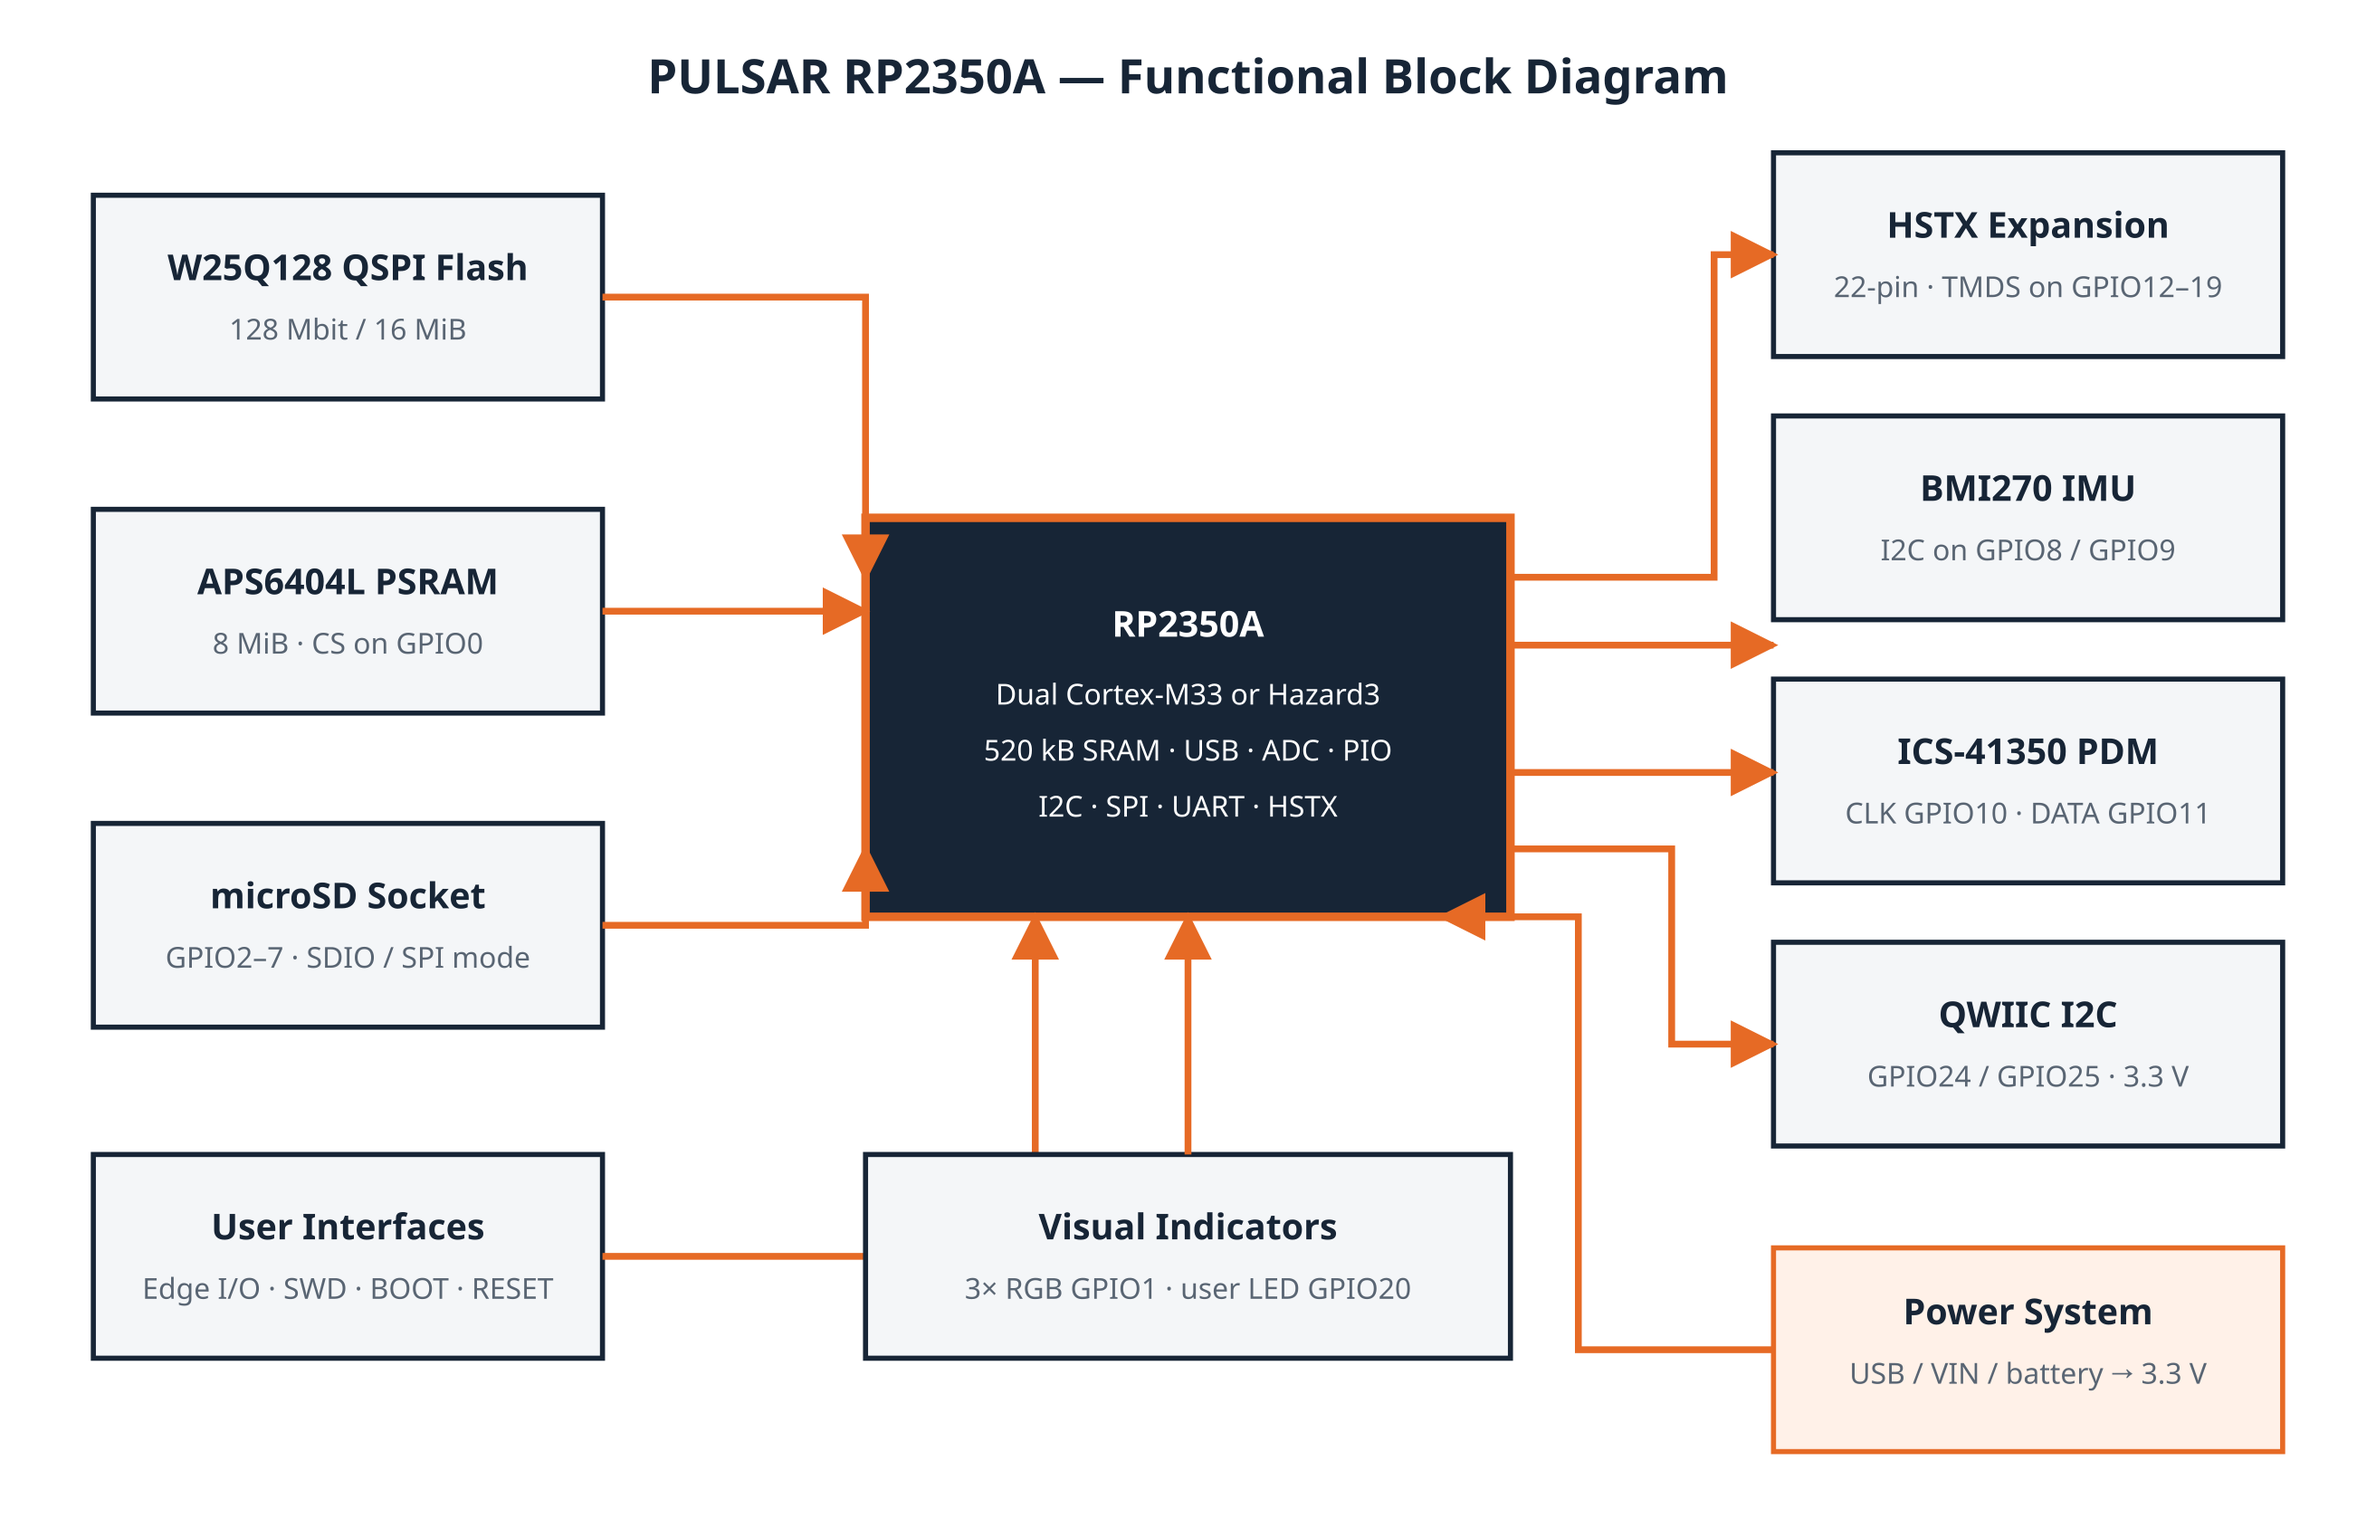
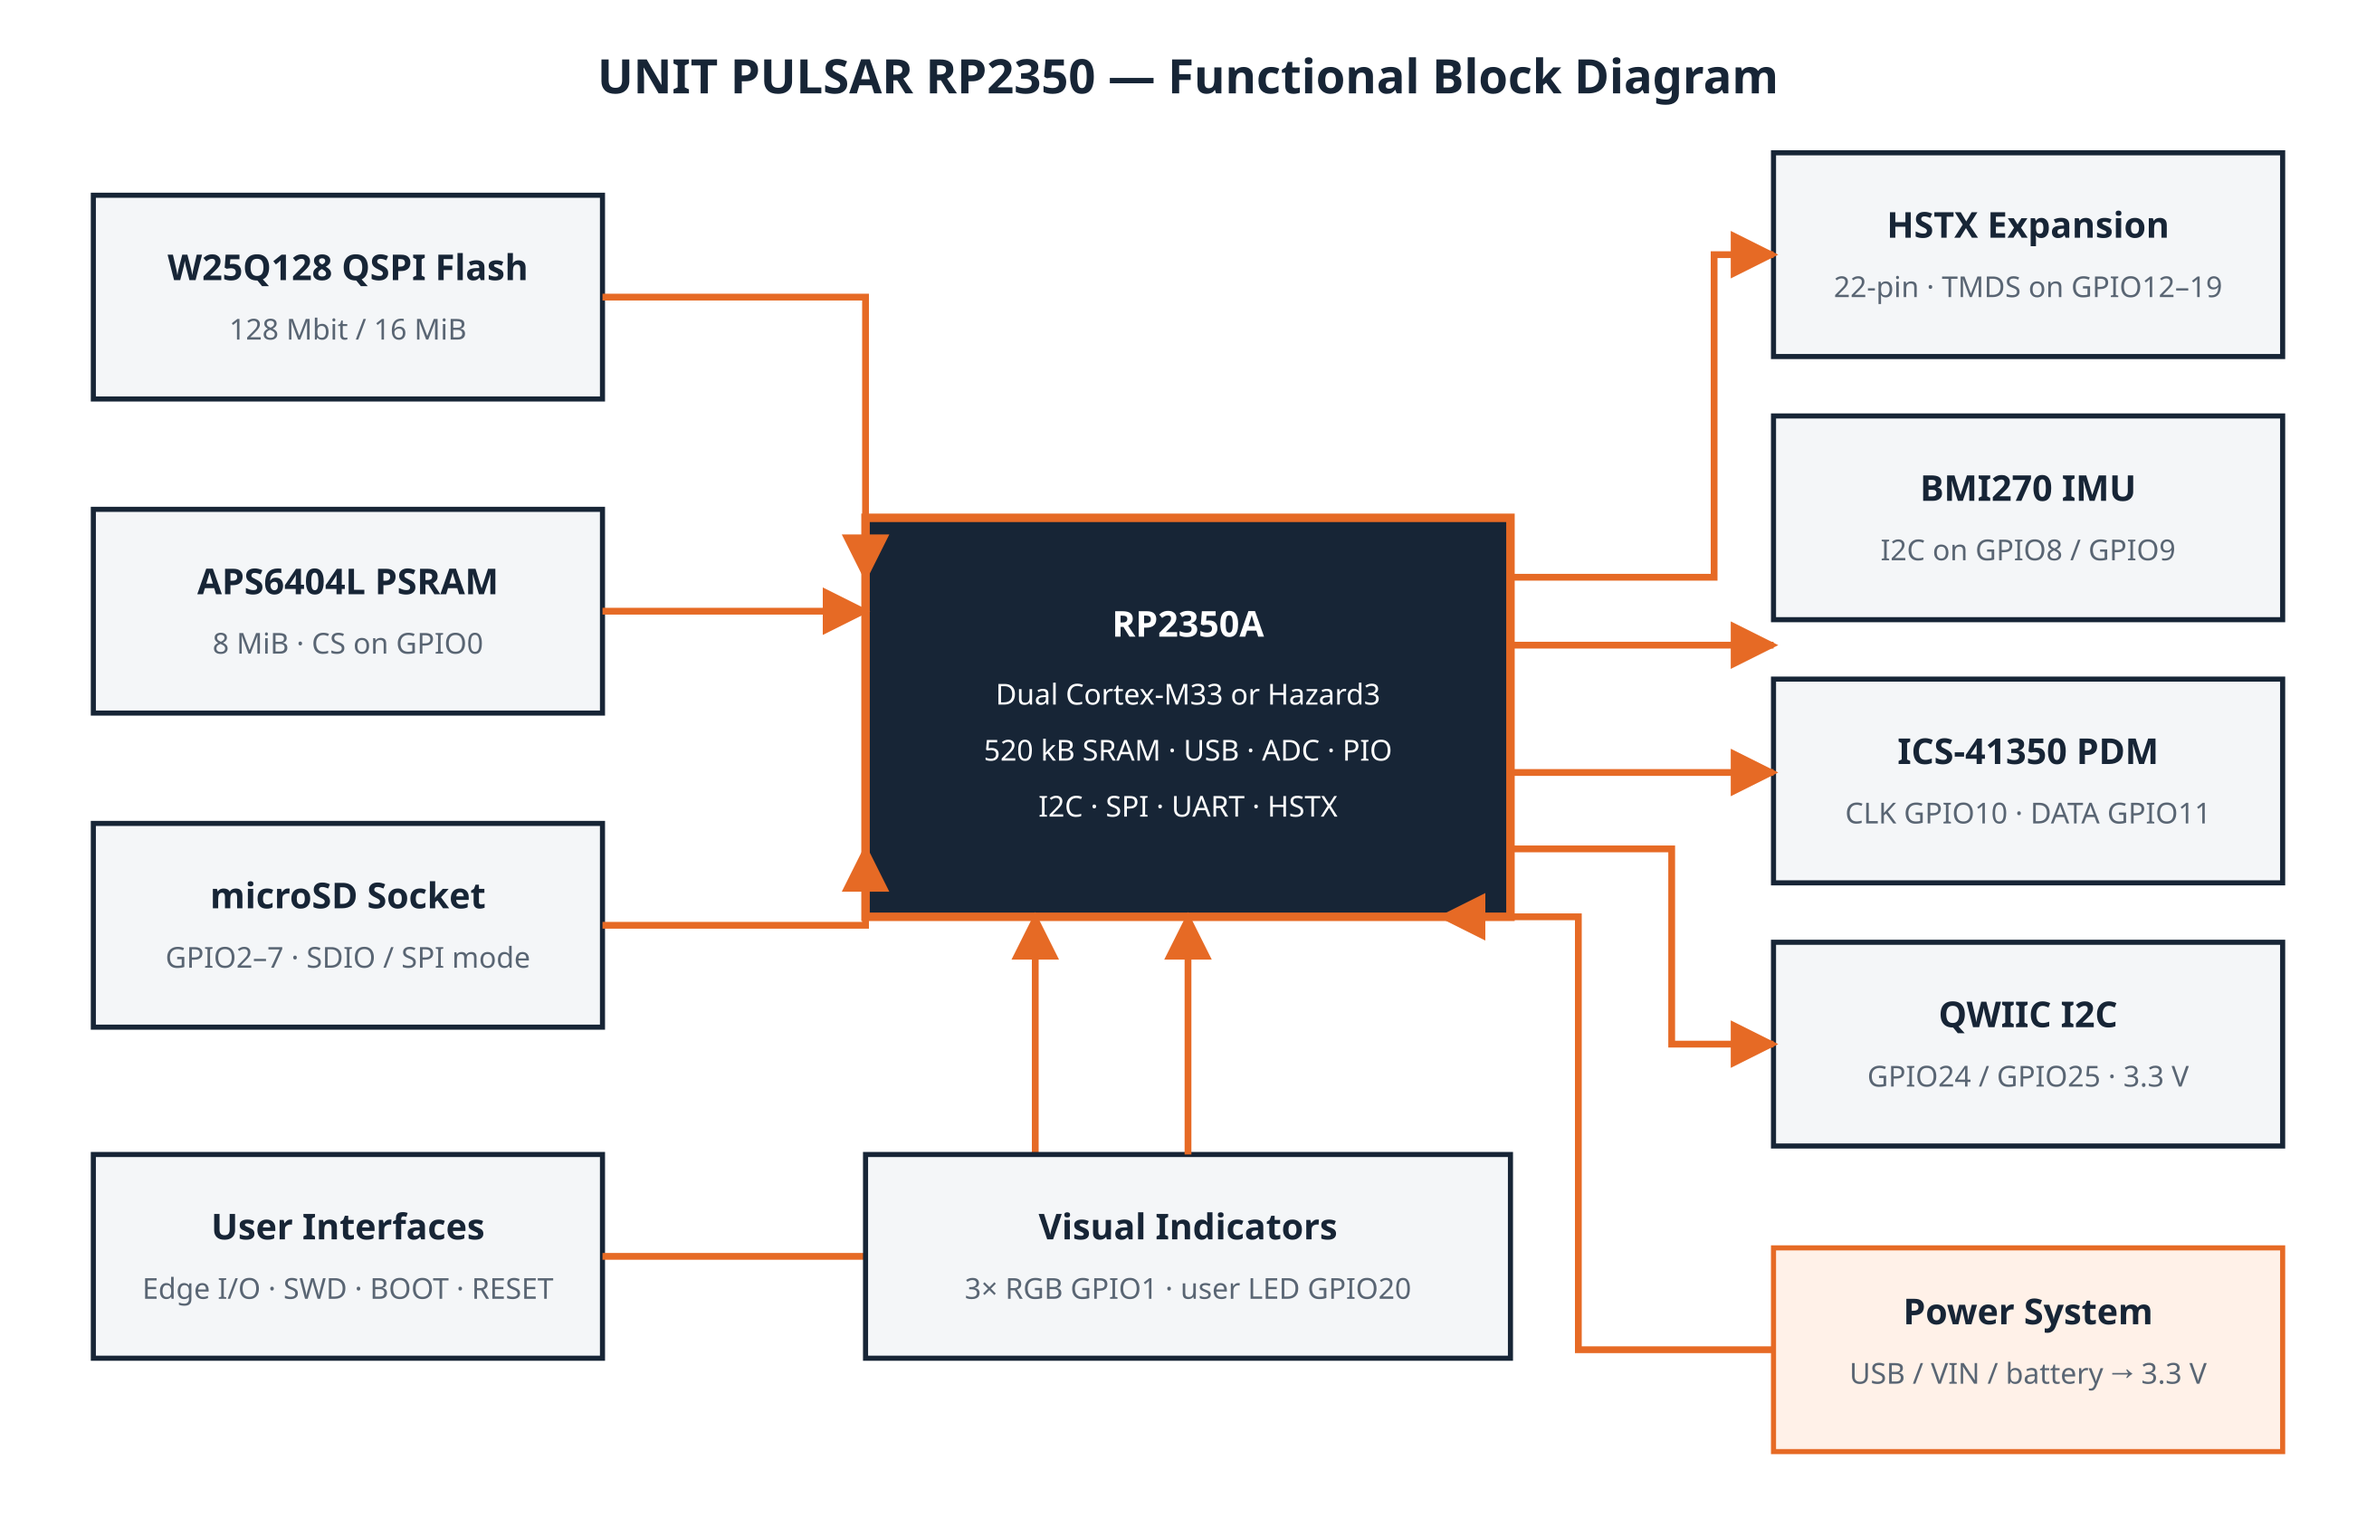
docs(hardware): update board diagrams and hardware documentation

Changed region(s): [[0.2499, 0.0308, 0.7497, 0.0616]]

diff --git a/hardware/README.md b/hardware/README.md
@@ -1,21 +1,21 @@
-# PULSAR RP2350A Hardware
+# UNIT PULSAR RP2350 Hardware
 
-## Note of Development
+## Hardware Scope
 
-This hardware reference covers the pre-production V1.3.0 board artwork and the
-available V1.3 schematic/BOM package. The hardware design is complete and
-awaiting fabrication. This document separates design-defined connections from
-items that require schematic correction or confirmation on the first
-manufactured units. The schematic title block currently says `PULSAR RP230A` and
+This hardware reference covers the V1.3.0 board artwork and the V1.3
+schematic/BOM package. It separates design-defined connections from values not
+specified by the available board-level documentation. The schematic title block says `PULSAR RP230A` and
 `REV: 1.0.0`, although the filename, board artwork, BOM, and fitted controller
-identify the product as PULSAR RP2350A V1.3.0.
+identify the product as UNIT PULSAR RP2350 V1.3.0 with an RP2350A controller.
 
 ## Naming Rules
 
-- Product name: **PULSAR RP2350A Multi-Interface Development Board**.
+- Product name: **UNIT PULSAR RP2350 Multi-Interface Development Board**.
+- Product family: **UNIT DevLab ecosystem**; `DevLab` is not part of the
+  product name.
 - Manufacturer Part Number: **UE0103**; use it only in manufacturing and
   document-control fields.
-- Released source assets use lowercase, descriptive names and explicit
+- Source assets use lowercase, descriptive names and explicit
   revisions, for example `unit_top_v_1_3_0_pulsar_rp2350a.png`.
 - Generated Product Reference files use
   `unit_product_reference_v_0_1_0_pulsar_rp2350a.*`.
@@ -38,17 +38,17 @@ identify the product as PULSAR RP2350A V1.3.0.
 | JP1 | PH2.0 2P | Two-position battery connection |
 
 The BOM component ratings are not module ratings. In particular, the allowed
-`VIN`, `VBAT`, and 3.3 V rail loads remain pending validation.
+`VIN`, `VBAT`, and 3.3 V rail loads are not specified at module level.
 
-![PULSAR RP2350A top view](resources/unit_top_v_1_3_0_pulsar_rp2350a.png)
+![UNIT PULSAR RP2350 top view](resources/unit_top_v_1_3_0_pulsar_rp2350a.png)
 
-![PULSAR RP2350A bottom view](resources/unit_btm_v_1_3_0_pulsar_rp2350a.png)
+![UNIT PULSAR RP2350 bottom view](resources/unit_btm_v_1_3_0_pulsar_rp2350a.png)
 
 ## Pinout
 
 The following mapping is transcribed from the V1.3 schematic and visible board
 labels. `D8` and `D9` appear on the artwork but are not traced to RP2350A GPIOs
-in the available schematic; treat them as unassigned pending validation.
+in the available schematic; treat them as unassigned.
 
 | Board label | RP2350A connection | Function / status |
 |---|---|---|
@@ -60,7 +60,7 @@ in the available schematic; treat them as unassigned pending validation.
 | `D5` | GPIO14 | Digital I/O; HSTX connector signal |
 | `D6` | GPIO13 | Digital I/O; HSTX connector signal |
 | `D7` | GPIO12 | Digital I/O; HSTX connector signal |
-| `D8`, `D9` | Pending | No RP2350A connection shown in the V1.3 schematic |
+| `D8`, `D9` | Not specified | No RP2350A connection shown in the V1.3 schematic |
 | `D10` / `SS` | GPIO21 | Digital I/O |
 | `D11` / `MOSI` | GPIO22 | Digital I/O |
 | `D12` / `MISO` | GPIO23 | Digital I/O |
@@ -72,11 +72,11 @@ in the available schematic; treat them as unassigned pending validation.
 | `SCL` / `D19` | GPIO9 | Internal/user I2C clock; BMI270 bus |
 | `D21` | GPIO10 | PDM microphone clock net (`CLK_MIC`) |
 | `RGB` | GPIO1 | WS2812 chain data (`NEOP_DO`) |
-| `3V3` | 3.3 V rail | Regulated rail; available current pending validation |
+| `3V3` | 3.3 V rail | Regulated rail; available current not specified |
 | `3EN` | LDO enable | Pulled up in the schematic |
-| `VBAT` | Battery rail | Operating limits pending validation |
+| `VBAT` | Battery rail | Operating limits not specified |
 | `VUSB` | USB VBUS | USB-C supply rail |
-| `VIN` | System supply input | Allowed input range pending validation |
+| `VIN` | System supply input | Allowed input range not specified |
 | `RST` | Reset | RP2350A reset control |
 | `GND` | Ground | Common return |
 
@@ -94,8 +94,8 @@ in the available schematic; treat them as unassigned pending validation.
 ## Dimensions
 
 A controlled dimension drawing and mounting-hole coordinates are not present
-in the supplied V1.3 package. Dimensions are pending validation; do not scale
-them from the rendered board images.
+in the supplied V1.3 package. Do not derive dimensions from the rendered board
+images.
 
 ## Topology
 
@@ -121,13 +121,13 @@ power-path specification.
 
 - **USB-C:** USB data and nominal USB VBUS entry.
 - **J1 QWIIC:** four positions carrying GND, 3.3 V, GPIO24/SDA, and
-  GPIO25/SCL. Cable orientation is pending physical validation.
+  GPIO25/SCL. Cable orientation is not specified by a controlled drawing.
 - **J5 HSTX:** 22-position FFC/FPC connector exposing D0–D7, A0, A1,
   GPIO24/SDA, GPIO25/SCL, 3.3 V, and return pins according to the schematic.
-  The complete controlled pin-number table is pending validation.
+  A controlled pin-number table is not included in the source package.
 - **microSD:** four-bit SDIO connection (CLK, CMD, DAT0–DAT3).
 - **JP1 battery:** two-position battery connector; polarity is shown on the
-  bottom artwork, but compatible battery/cable assemblies are not yet released.
+  bottom artwork. Compatible battery and cable assemblies are not specified.
 - **SWD pads:** `SWDIO`, `SWCLK`, 3.3 V, and GND test/programming pads are
   visible on the bottom artwork.
 
@@ -143,8 +143,7 @@ a chain driven from GPIO1.
 USB VBUS and `VIN` feed the documented power-path components, while an
 MCP73831 charge controller and external battery connection support a
 single-cell battery design. Module-level input ranges, charge current, rail
-current, and source-selection behavior remain pending confirmation on the first
-manufactured units.
+current, and source-selection behavior are not specified at module level.
 
 ## Applications
 
@@ -157,9 +156,9 @@ manufactured units.
 
 ## References
 
-- [PULSAR RP2350A repository](https://github.com/UNIT-Electronics-MX/unit_pulsar_rp2350a)
+- [UNIT PULSAR RP2350 repository](https://github.com/UNIT-Electronics-MX/unit_pulsar_rp2350a)
 - [Technical wiki](https://github.com/UNIT-Electronics-MX/unit_pulsar_rp2350a/wiki)
 - [C++ examples](https://github.com/UNIT-Electronics-MX/unit_pulsar_rp2350a/tree/main/software/cpp_examples)
 - [Official RP2350 datasheet](https://datasheets.raspberrypi.com/rp2350/rp2350-datasheet.pdf)
-- [Preview Product Reference](https://unit-electronics-mx.github.io/unit_pulsar_rp2350a/hardware/unit_product_reference_v_0_1_0_pulsar_rp2350a.pdf)
+- [Product Reference](https://unit-electronics-mx.github.io/unit_pulsar_rp2350a/hardware/unit_product_reference_v_0_1_0_pulsar_rp2350a.pdf)
 - [V1.3 schematic](https://github.com/UNIT-Electronics-MX/unit_pulsar_rp2350a/blob/main/hardware/unit_sch_v_1_3_0_pulsar_rp2350a.pdf)
